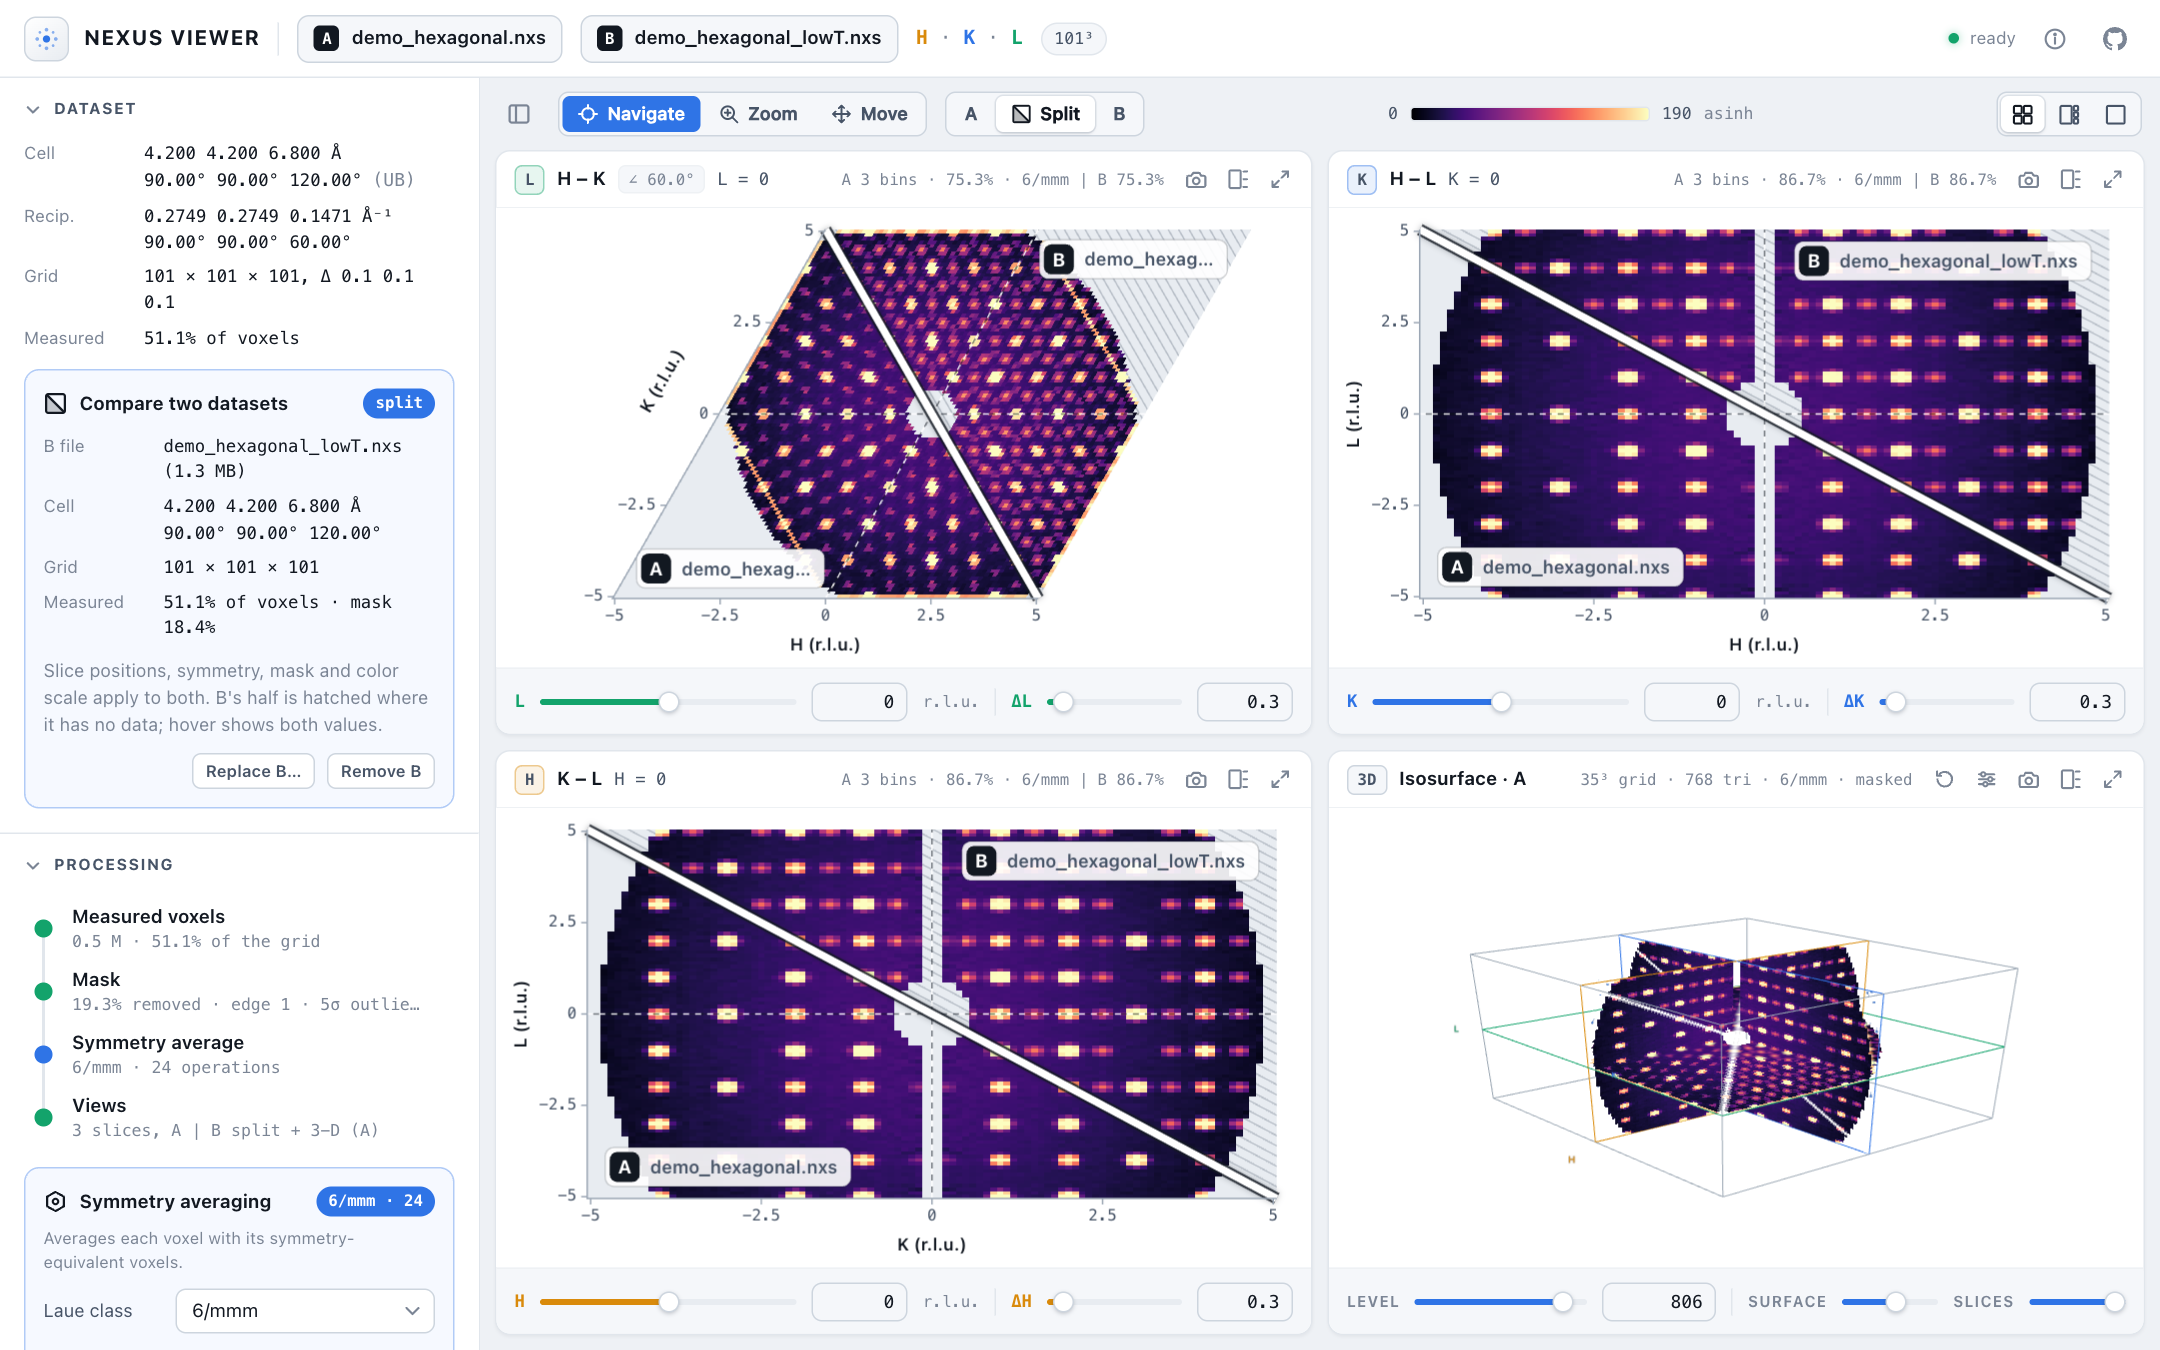
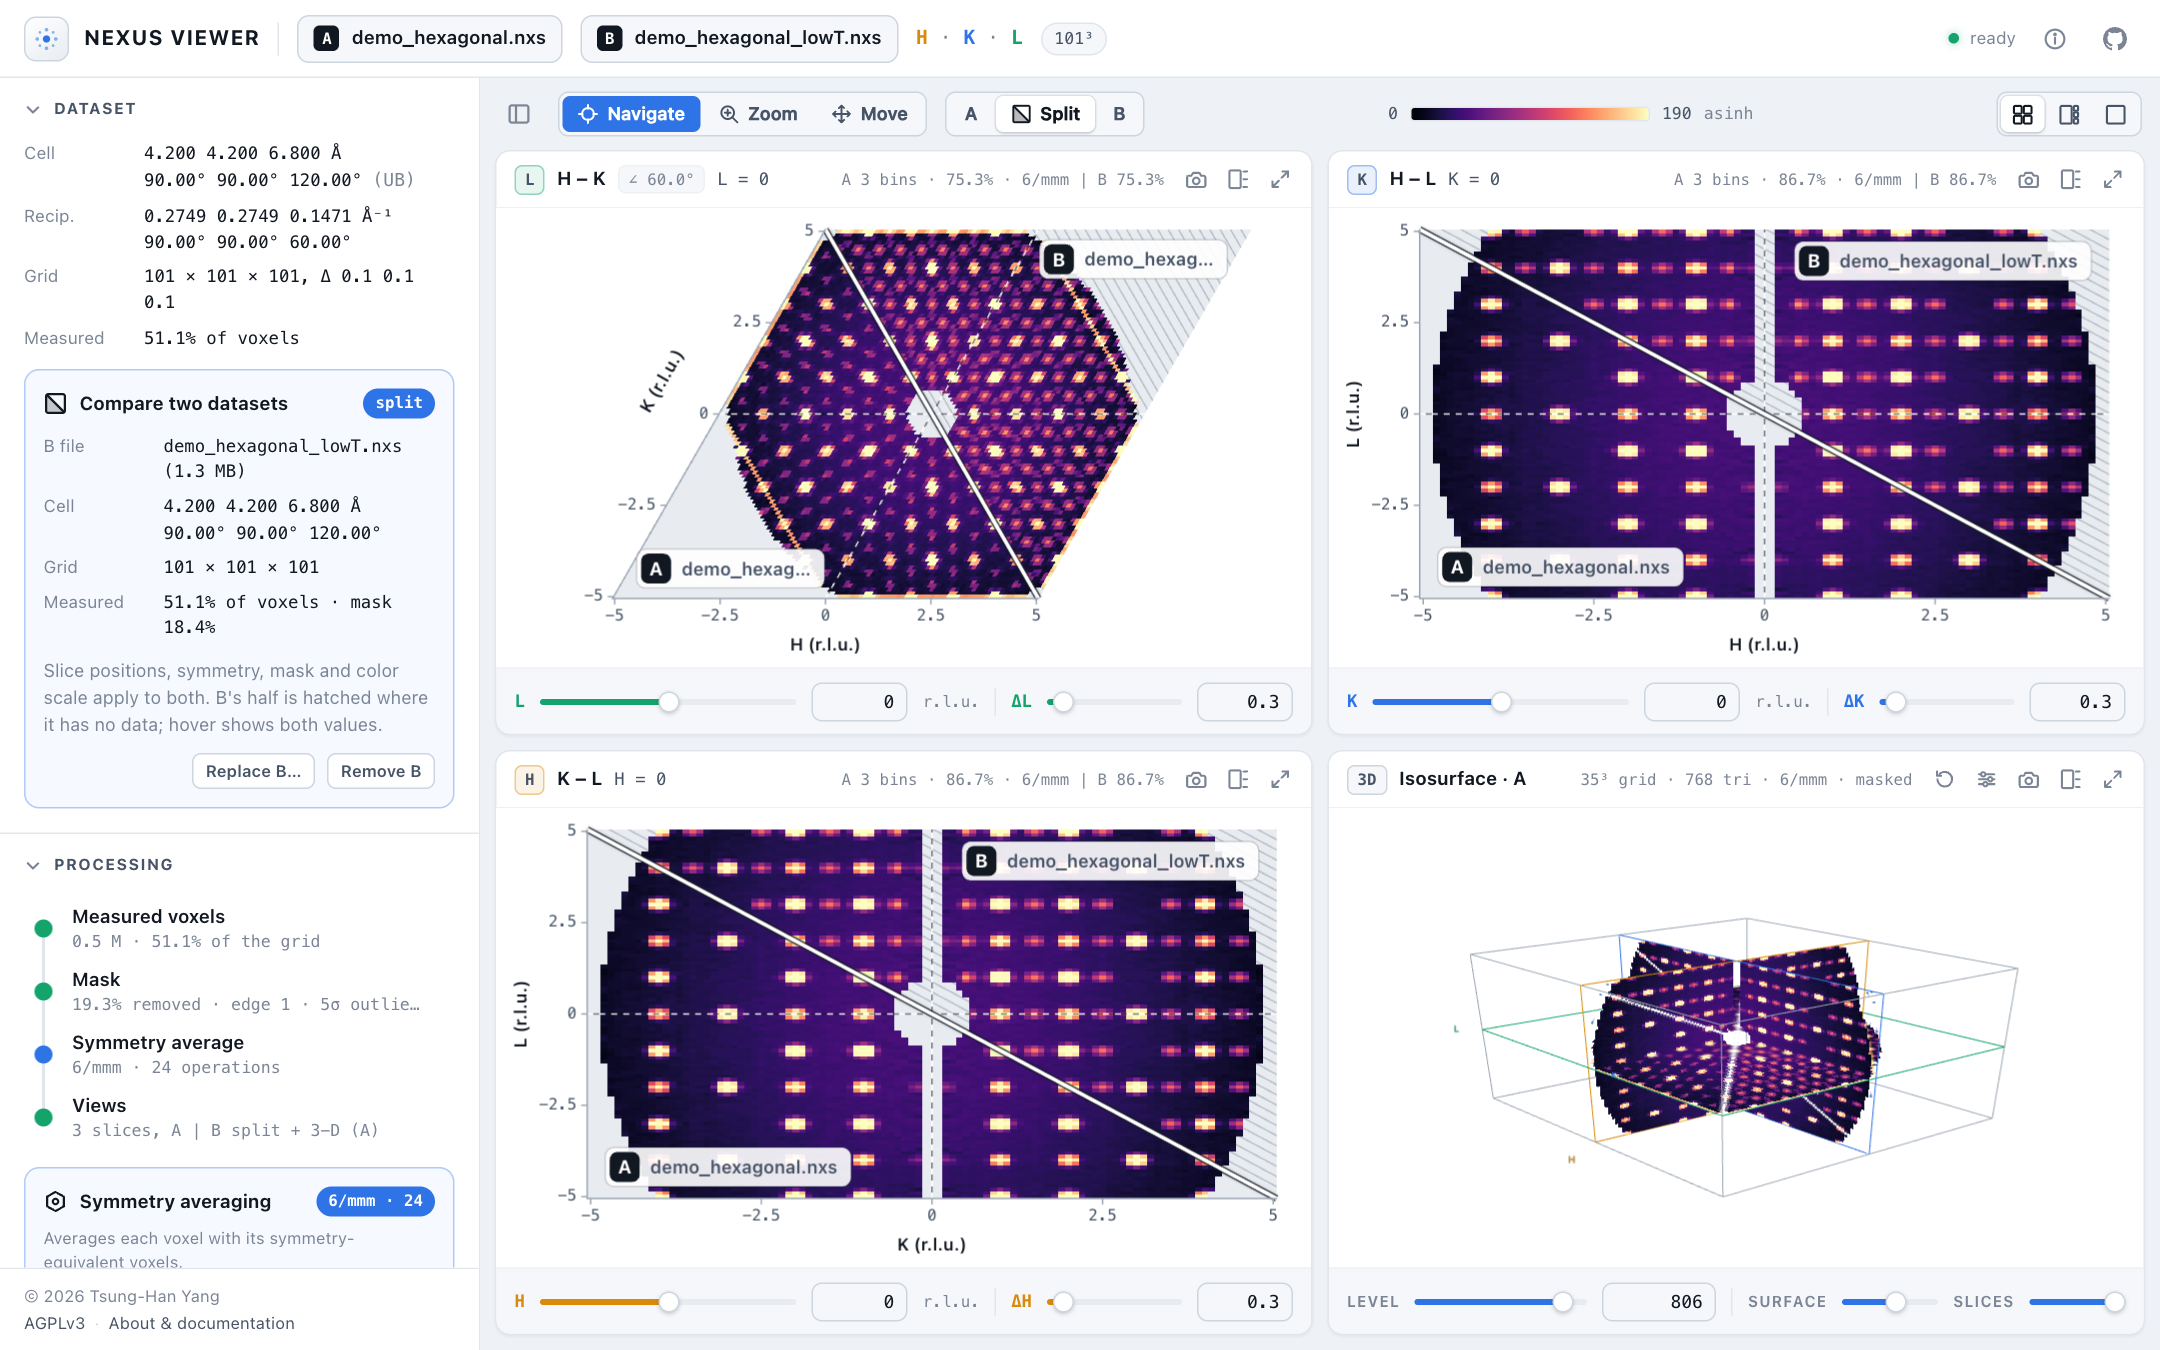
Thinner comparison cut; load app.js by page date so a deploy never pairs with a cached app.js

diff --git a/index.html b/index.html
@@ -239,19 +239,17 @@ body.panel-collapsed .panel { visibility: hidden; }
 .workspace.focus > .view.primary { grid-column: 1; grid-row: 1 / 4; }
 .workspace.focus > .view:not(.primary) { grid-column: 2; }
 .workspace.focus > .view:not(.primary) .view-foot { display: none; }
-/* Focus layout: the small views are thumbnails. Hovering one highlights it, and a click shows it large. */
-@media (min-width: 1001px) and (min-height: 641px) {
-  .workspace.focus > .view:not(.primary) { transition: border-color 120ms ease, box-shadow 120ms ease; }
-  .workspace.focus > .view:not(.primary) .view-head { cursor: pointer; }
-  .workspace.focus > .view:not(.primary) .view-body::before { content: ""; position: absolute; inset: 0; z-index: 2; cursor: pointer; transition: background 120ms ease; }
-  .workspace.focus > .view:not(.primary) .view-body::after {
-    content: "Click to enlarge"; position: absolute; left: 50%; top: 50%; z-index: 3; transform: translate(-50%, -50%); padding: 5px 12px; border-radius: 999px;
-    background: var(--accent); color: #fff; font-size: 12px; font-weight: 600; white-space: nowrap; box-shadow: var(--shadow-2); opacity: 0; pointer-events: none; transition: opacity 120ms ease;
-  }
-  .workspace.focus > .view:not(.primary):is(:hover, :focus-visible) { outline: none; border-color: var(--accent); box-shadow: 0 0 0 3px var(--accent-soft), var(--shadow-1); }
-  .workspace.focus > .view:not(.primary):is(:hover, :focus-visible) .view-body::before { background: rgba(47, 116, 230, 0.06); }
-  .workspace.focus > .view:not(.primary):is(:hover, :focus-visible) .view-body::after { opacity: 1; }
+/* Focus layout: app.js marks the small views as thumbnails. Hovering one highlights it, and a click shows it large. */
+.view.thumb { transition: border-color 120ms ease, box-shadow 120ms ease; }
+.view.thumb .view-head { cursor: pointer; }
+.view.thumb .view-body::before { content: ""; position: absolute; inset: 0; z-index: 2; cursor: pointer; transition: background 120ms ease; }
+.view.thumb .view-body::after {
+  content: "Click to enlarge"; position: absolute; left: 50%; top: 50%; z-index: 3; transform: translate(-50%, -50%); padding: 5px 12px; border-radius: 999px;
+  background: var(--accent); color: #fff; font-size: 12px; font-weight: 600; white-space: nowrap; box-shadow: var(--shadow-2); opacity: 0; pointer-events: none; transition: opacity 120ms ease;
 }
+.view.thumb:is(:hover, :focus-visible) { outline: none; border-color: var(--accent); box-shadow: 0 0 0 3px var(--accent-soft), var(--shadow-1); }
+.view.thumb:is(:hover, :focus-visible) .view-body::before { background: rgba(47, 116, 230, 0.06); }
+.view.thumb:is(:hover, :focus-visible) .view-body::after { opacity: 1; }
 .workspace.single { grid-template: minmax(0, 1fr) / minmax(0, 1fr); }
 .workspace.single > .view:not(.primary) { display: none; }
 .view { min-width: 0; min-height: 0; display: flex; flex-direction: column; background: var(--surface); border: 1px solid var(--border); border-radius: var(--radius); box-shadow: var(--shadow-1); overflow: hidden; }
@@ -578,6 +576,7 @@ body.dragging.drop-b::after { content: "Drop to compare as dataset B"; }
   </div>
 </div>
 
-<script type="module" src="js/app.js"></script>
+<!-- app.js is loaded under this page's own date, so after a deployment the page is never paired with an older cached app.js. -->
+<script type="module">import(`./js/app.js?v=${Date.parse(document.lastModified) || Date.now()}`);</script>
 </body>
 </html>

diff --git a/js/app.js b/js/app.js
@@ -464,7 +464,7 @@ function viewShell(key, badge, title) {
   maxBtn.onclick = () => setLayout(layout === 'single' && primary === key ? lastMulti : 'single', key);
   section.querySelector('.view-head').ondblclick = (e) => { if (!e.target.closest('button')) maxBtn.click(); };
   // In the focus layout the small views are thumbnails: a click (outside their buttons) shows one large.
-  const enlarge = () => layout === 'focus' && primary !== key && !compactLayout.matches;
+  const enlarge = () => section.classList.contains('thumb');
   section.addEventListener('click', (e) => { if (enlarge() && !e.target.closest('button, input, select, a')) setLayout('focus', key); });
   section.addEventListener('keydown', (e) => {
     if (e.target === section && (e.key === 'Enter' || e.key === ' ') && enlarge()) {
@@ -579,6 +579,7 @@ function setupViewer() {
 
 // Below this size the views stack in one column and the layouts do not apply.
 const compactLayout = matchMedia('(max-width: 1000px), (max-height: 640px)');
+compactLayout.addEventListener('change', () => { if (views.hk) setLayout(layout, primary); });
 
 function setLayout(mode, key = primary) {
   if (!views[key]) key = 'hk';
@@ -592,8 +593,10 @@ function setLayout(mode, key = primary) {
   for (const [k, v] of Object.entries(views)) {
     const isPrimary = k === key;
     v.section.classList.toggle('primary', isPrimary);
-    // Small views in the focus layout can be reached with Tab and opened with Enter.
-    if (mode === 'focus' && !isPrimary) v.section.tabIndex = 0;
+    // Small views in the focus layout are thumbnails (styled by .thumb), reachable with Tab and opened with Enter.
+    const thumb = mode === 'focus' && !isPrimary && !compactLayout.matches;
+    v.section.classList.toggle('thumb', thumb);
+    if (thumb) v.section.tabIndex = 0;
     else v.section.removeAttribute('tabindex');
     const back = mode === 'focus' && isPrimary;
     v.focusBtn.innerHTML = back ? ICONS.quad : ICONS.focus;
@@ -935,9 +938,9 @@ function draw(p, canvas, w, h, dpr, exporting = false) {
   if (shown === 'split') {
     c.save();
     c.lineCap = 'butt';
-    c.shadowColor = 'rgba(18, 24, 33, 0.35)';
-    c.shadowBlur = 6;
-    for (const [color, width] of [['rgba(18, 24, 33, 0.8)', 8], ['#ffffff', 5]]) {
+    c.shadowColor = 'rgba(18, 24, 33, 0.25)';
+    c.shadowBlur = 3;
+    for (const [color, width] of [['rgba(18, 24, 33, 0.75)', 4.5], ['#ffffff', 2.5]]) {
       c.strokeStyle = color;
       c.lineWidth = width;
       c.beginPath(); c.moveTo(...corners[3]); c.lineTo(...corners[1]); c.stroke();
@@ -1392,7 +1395,7 @@ function sliceTexture(p, s, u, v) {
   }
   if (shown === 'split') {
     c.strokeStyle = '#ffffff';
-    c.lineWidth = Math.max(1.5, Math.max(cols, rows) / 70);
+    c.lineWidth = Math.max(1, Math.max(cols, rows) / 120);
     c.beginPath(); c.moveTo(...px(u[0], v[1])); c.lineTo(...px(u[1], v[0])); c.stroke();
   }
   p.texture = canvas;

diff --git a/docs/DEVELOPMENT.md b/docs/DEVELOPMENT.md
@@ -53,3 +53,5 @@ No other runtime dependencies. The file never leaves the browser; only these two
 ## Deployment
 
 GitHub Pages serves the root of `main` (*Deploy from a branch*, `main`, `/ (root)`) at [drthyang.github.io/neutron-nexus-viewer](https://drthyang.github.io/neutron-nexus-viewer/). Every push to `main` redeploys it within about a minute. `.nojekyll` makes Pages serve the files as they are.
+
+Pages lets browsers cache files for 10 minutes. `index.html` therefore loads `js/app.js` with its own `Last-Modified` date as a query string, so a freshly deployed page never runs with an older cached `app.js`. The other modules are loaded by plain relative URLs.
